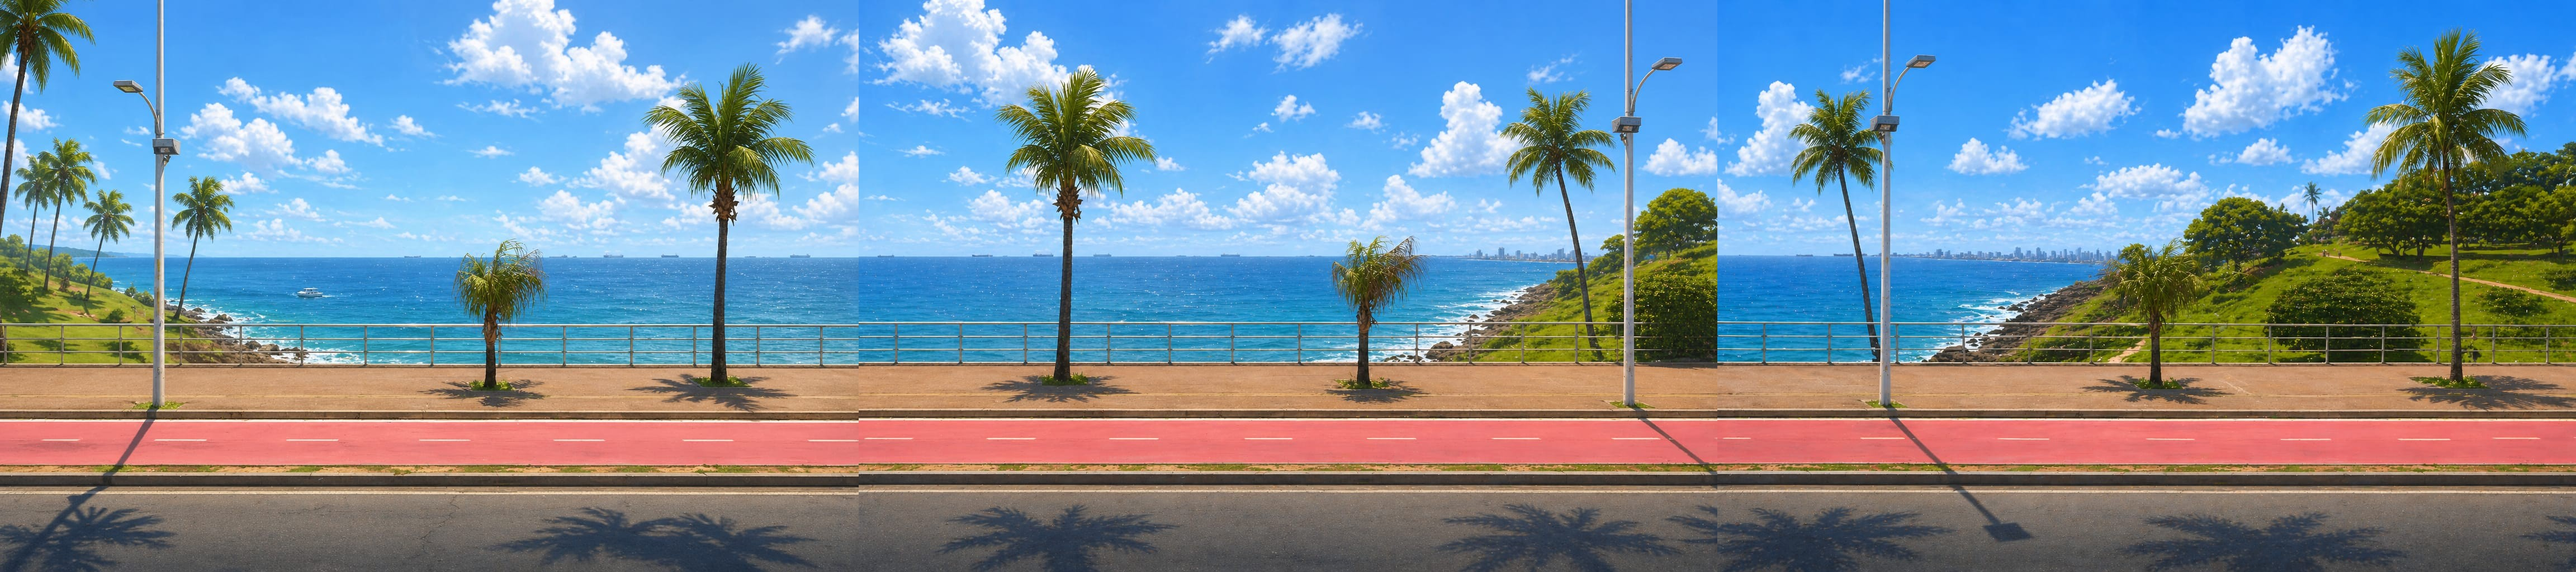
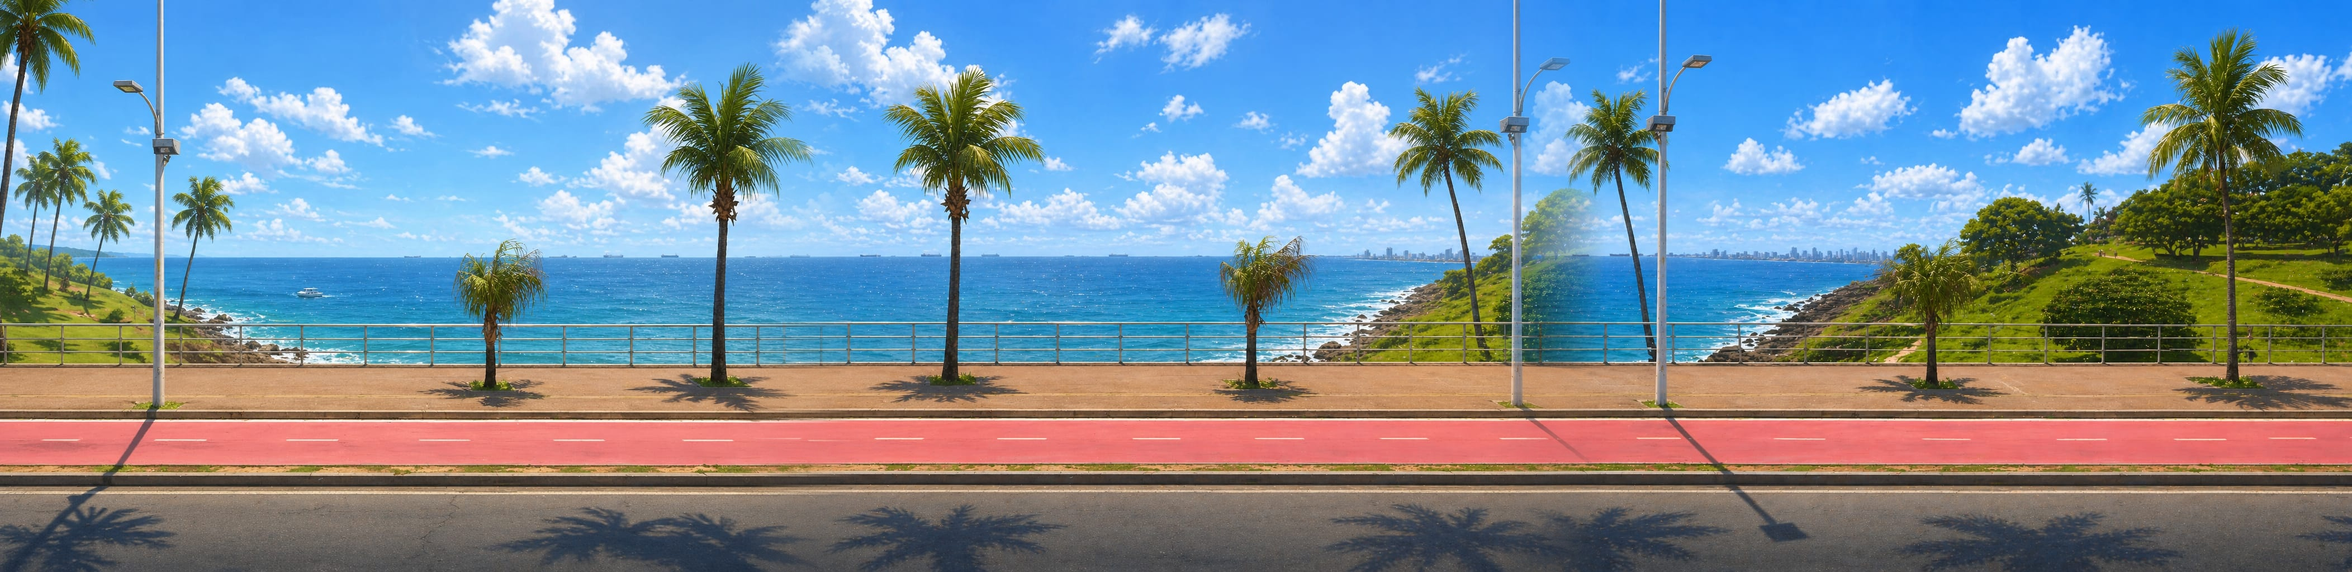
Smooth blending between panorama images (200px gradient blend)

diff --git a/scripts/stitch_bg.py b/scripts/stitch_bg.py
@@ -1,17 +1,45 @@
 #!/usr/bin/env python3
-"""Stitch 3 images side-by-side for seamless looping background."""
+"""Stitch 3 images side-by-side with smooth blending for seamless looping."""
 
-from PIL import Image
+from PIL import Image, ImageDraw
 import os
 
-def stitch_images(image_paths, output_path):
-    """Stitch images horizontally."""
+def blend_images(img1, img2, blend_width=100):
+    """Blend two images together with a gradient."""
+    w1, h = img1.size
+    w2, _ = img2.size
+    
+    # Create new image for the blend region
+    blend = Image.new('RGB', (blend_width, h))
+    
+    # Get edge pixels
+    edge1 = img1.crop((w1 - blend_width, 0, w1, h))
+    edge2 = img2.crop((0, 0, blend_width, h))
+    
+    # Blend pixel by pixel
+    pixels1 = edge1.load()
+    pixels2 = edge2.load()
+    pixels_blend = blend.load()
+    
+    for y in range(h):
+        for x in range(blend_width):
+            # Calculate blend factor (0 = img1, 1 = img2)
+            factor = x / blend_width
+            r = int(pixels1[x, y][0] * (1 - factor) + pixels2[x, y][0] * factor)
+            g = int(pixels1[x, y][1] * (1 - factor) + pixels2[x, y][1] * factor)
+            b = int(pixels1[x, y][2] * (1 - factor) + pixels2[x, y][2] * factor)
+            pixels_blend[x, y] = (r, g, b)
+    
+    return blend
+
+def stitch_images_smooth(image_paths, output_path, blend_width=150):
+    """Stitch images horizontally with smooth blending between them."""
     images = [Image.open(p).convert('RGB') for p in image_paths]
     
-    # Find common height (use minimum to avoid stretching)
+    # Find common height
     target_height = min(img.height for img in images)
     
-    # Resize all to same height maintaining aspect ratio
+    # Resize all to same height
     resized = []
     for img in images:
         aspect = img.width / img.height
@@ -19,27 +47,43 @@ def stitch_images(image_paths, output_path):
         resized_img = img.resize((new_width, target_height), Image.Resampling.LANCZOS)
         resized.append(resized_img)
     
-    # Calculate total width
-    total_width = sum(img.width for img in resized)
+    # Calculate total width (with overlap for blending)
+    total_width = sum(img.width for img in resized) - (blend_width * (len(resized) - 1))
     
     # Create panoramic image
     panorama = Image.new('RGB', (total_width, target_height))
     
-    # Paste images side by side
+    # Paste first image
     x_offset = 0
-    for img in resized:
-        panorama.paste(img, (x_offset, 0))
-        x_offset += img.width
+    panorama.paste(resized[0], (0, 0))
+    x_offset = resized[0].width
     
-    panorama.save(output_path, 'JPEG', quality=90)
-    print(f"Created panorama: {output_path}")
+    # Blend and paste remaining images
+    for i in range(1, len(resized)):
+        prev_img = resized[i-1]
+        curr_img = resized[i]
+        
+        # Create blend region
+        blend = blend_images(prev_img, curr_img, blend_width)
+        
+        # Paste blend region (overlapping previous image edge)
+        panorama.paste(blend, (x_offset - blend_width, 0))
+        
+        # Paste current image (minus the blend part)
+        remaining = curr_img.crop((blend_width, 0, curr_img.width, curr_img.height))
+        panorama.paste(remaining, (x_offset, 0))
+        
+        x_offset += curr_img.width - blend_width
+    
+    panorama.save(output_path, 'JPEG', quality=95)
+    print(f"Created smooth panorama: {output_path}")
     print(f"  Size: {panorama.size}")
+    print(f"  Blend width: {blend_width}px between images")
     return output_path
 
 if __name__ == '__main__':
     base_dir = os.path.expanduser('~/.openclaw/workspace/projects/tucano-flap/public/backgrounds')
     
-    # Order: 1, 2, 3 (left to right as requested)
     images = [
         f'{base_dir}/brazil-coast-1.jpg',
         f'{base_dir}/brazil-coast-2.jpg', 
@@ -47,4 +91,4 @@ if __name__ == '__main__':
     ]
     
     output = f'{base_dir}/brazil-coast-panorama.jpg'
-    stitch_images(images, output)
+    stitch_images_smooth(images, output, blend_width=200)
